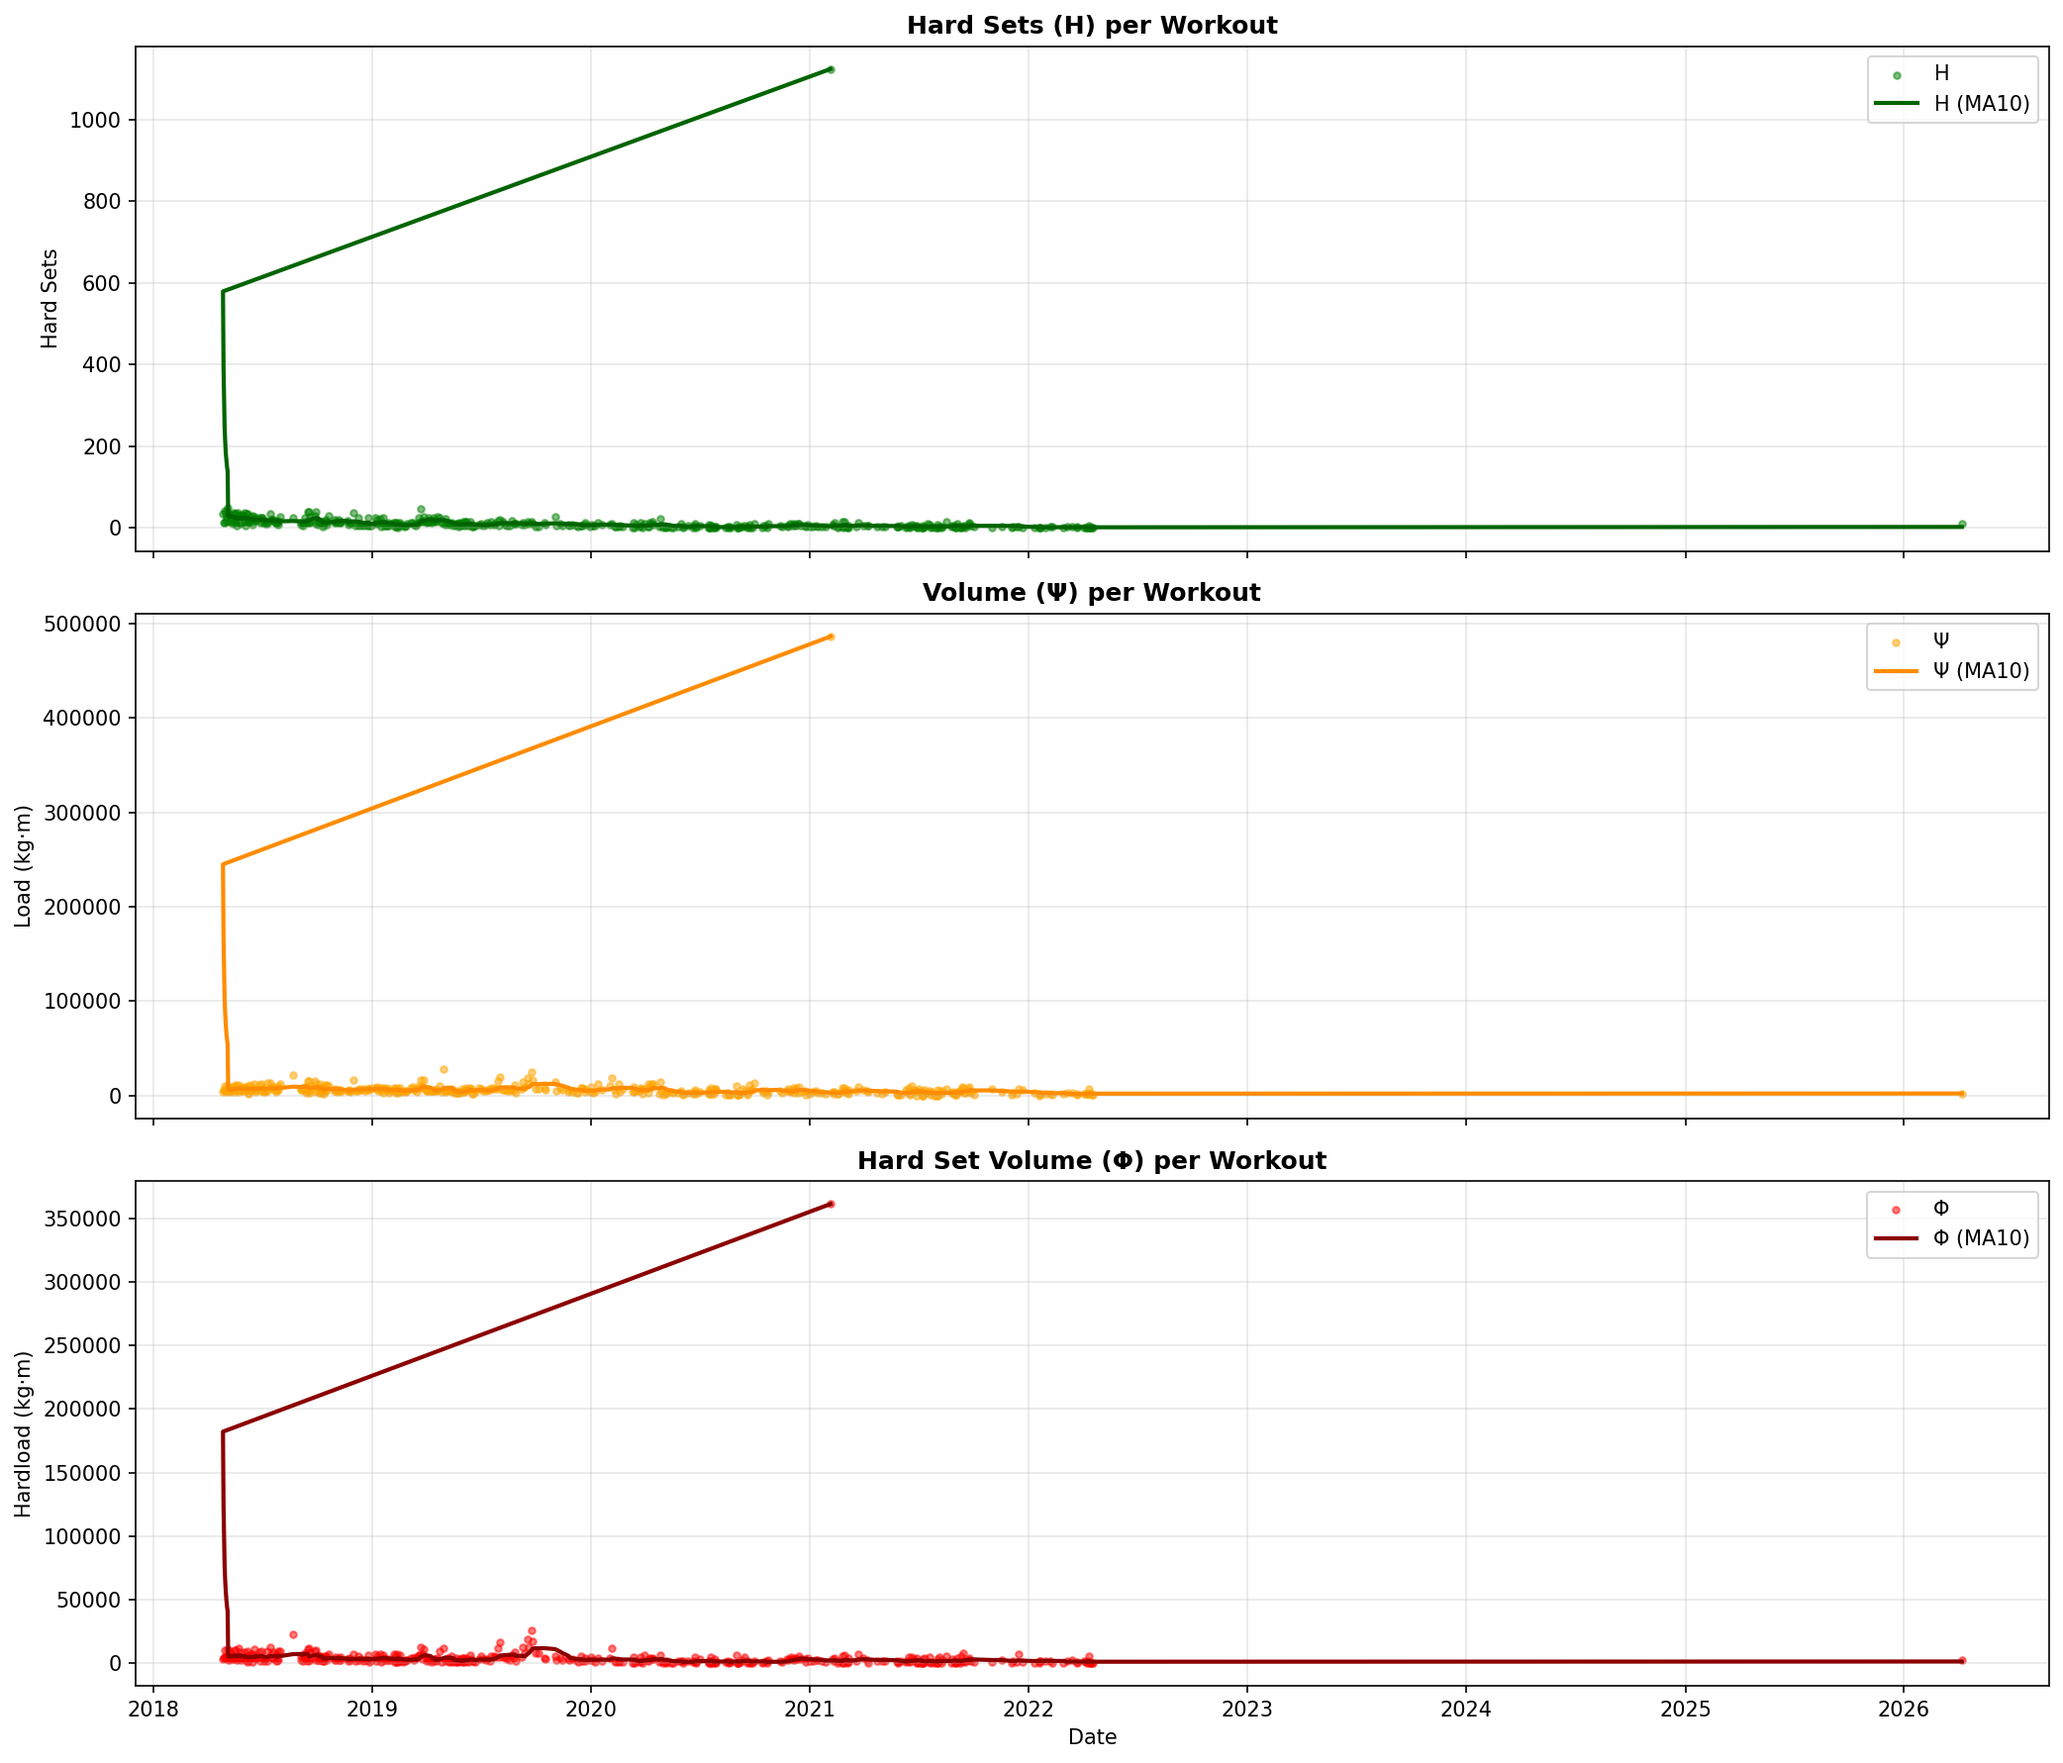
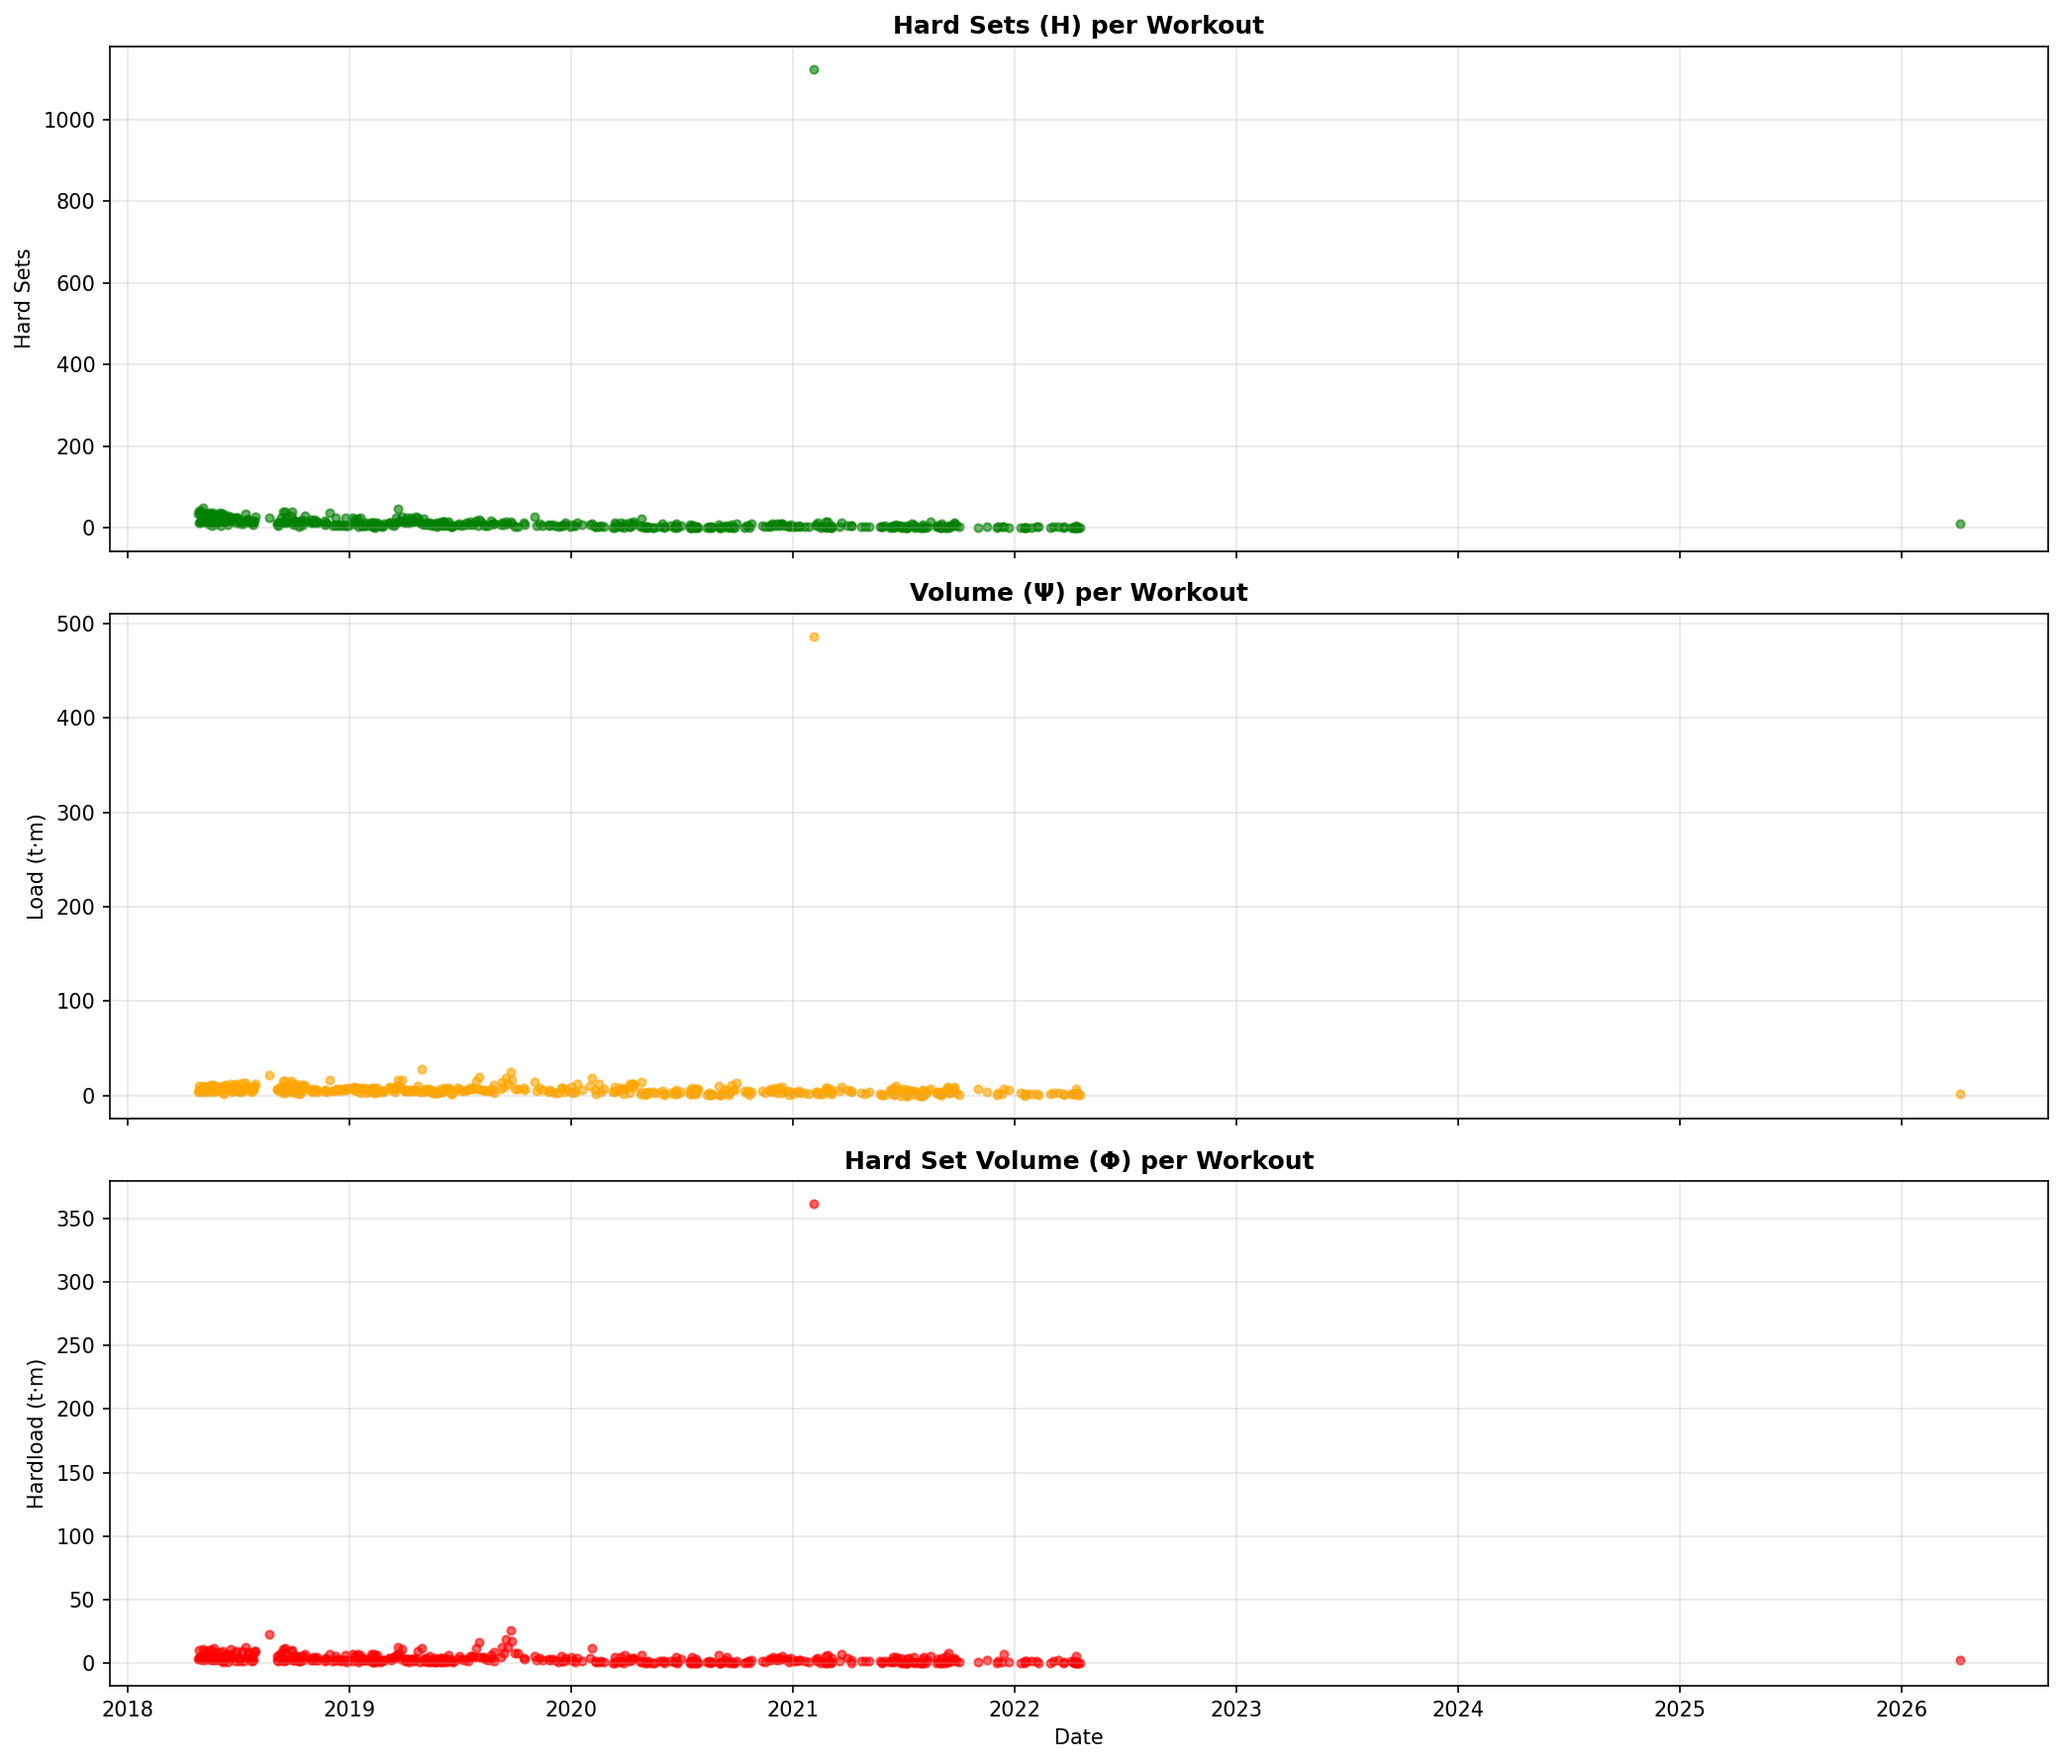
fix: scale in tonne·m, remove MA10 overlay

diff --git a/src/biovector/__main__.py b/src/biovector/__main__.py
@@ -301,51 +301,37 @@ class Main():
         plt.close()
         print(f"✓ reports/main_lifts.png")
 
-        # Volume trends - discrete values with rolling average
+        # Volume trends - discrete values per workout
         fig, axes = plt.subplots(3, 1, figsize=(14, 12), sharex=True)
         
-        dates = np.array([w["date"] for w in workouts])
-        hardsets = np.array([w["hardsets"] for w in workouts])
-        loads = np.array([w["load"] for w in workouts])
-        hardloads = np.array([w["hardload"] for w in workouts])
-        
-        # Rolling average (window=10)
-        def rolling_avg(arr, window=10):
-            ret = np.cumsum(arr, dtype=float)
-            ret[window:] = ret[window:] - ret[:-window]
-            ret[:window-1] = ret[:window-1] / np.arange(1, window)
-            ret[window-1:] = ret[window-1:] / window
-            return ret
+        dates = [w["date"] for w in workouts]
+        hardsets = [w["hardsets"] for w in workouts]
+        loads_t = [w["load"] / 1000 for w in workouts]  # tonne·m
+        hardloads_t = [w["hardload"] / 1000 for w in workouts]  # tonne·m
         
         # Hardsets (H) - count per workout
         ax = axes[0]
-        ax.scatter(dates, hardsets, s=10, alpha=0.5, color="green", label="H")
-        ax.plot(dates, rolling_avg(hardsets), color="darkgreen", linewidth=2, label="H (MA10)")
+        ax.scatter(dates, hardsets, s=15, alpha=0.6, color="green")
         ax.set_title("Hard Sets (H) per Workout", fontsize=12, fontweight="bold")
         ax.set_ylabel("Hard Sets")
         ax.grid(True, alpha=0.3)
-        ax.legend(loc="upper right")
         ax.xaxis.set_major_formatter(mdates.DateFormatter("%Y"))
         
-        # Load (Ψ) - volume per workout
+        # Load (Ψ) - volume per workout in tonne·m
         ax = axes[1]
-        ax.scatter(dates, loads, s=10, alpha=0.5, color="orange", label="Ψ")
-        ax.plot(dates, rolling_avg(loads), color="darkorange", linewidth=2, label="Ψ (MA10)")
+        ax.scatter(dates, loads_t, s=15, alpha=0.6, color="orange")
         ax.set_title("Volume (Ψ) per Workout", fontsize=12, fontweight="bold")
-        ax.set_ylabel("Load (kg·m)")
+        ax.set_ylabel("Load (t·m)")
         ax.grid(True, alpha=0.3)
-        ax.legend(loc="upper right")
         ax.xaxis.set_major_formatter(mdates.DateFormatter("%Y"))
         
-        # Hardload (Φ) - hard set volume per workout
+        # Hardload (Φ) - hard set volume per workout in tonne·m
         ax = axes[2]
-        ax.scatter(dates, hardloads, s=10, alpha=0.5, color="red", label="Φ")
-        ax.plot(dates, rolling_avg(hardloads), color="darkred", linewidth=2, label="Φ (MA10)")
+        ax.scatter(dates, hardloads_t, s=15, alpha=0.6, color="red")
         ax.set_title("Hard Set Volume (Φ) per Workout", fontsize=12, fontweight="bold")
-        ax.set_ylabel("Hardload (kg·m)")
+        ax.set_ylabel("Hardload (t·m)")
         ax.set_xlabel("Date")
         ax.grid(True, alpha=0.3)
-        ax.legend(loc="upper right")
         ax.xaxis.set_major_formatter(mdates.DateFormatter("%Y"))
         
         plt.tight_layout()
